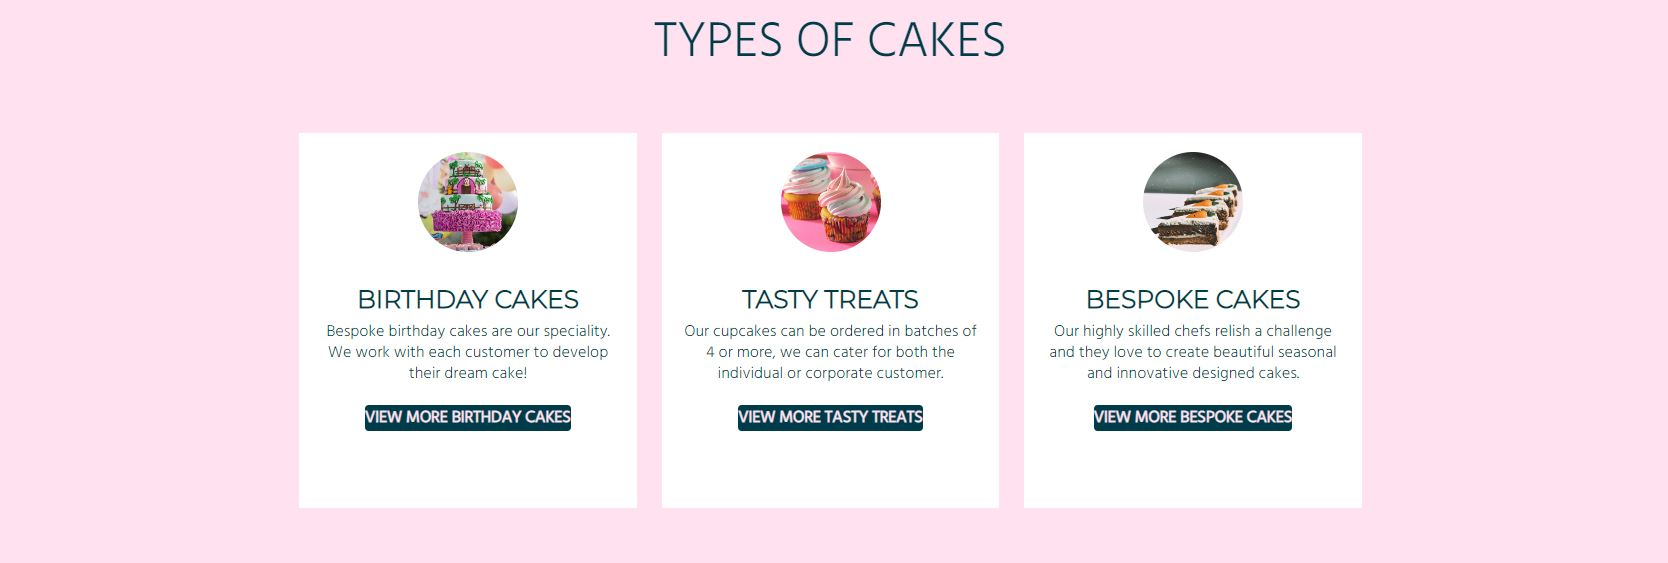
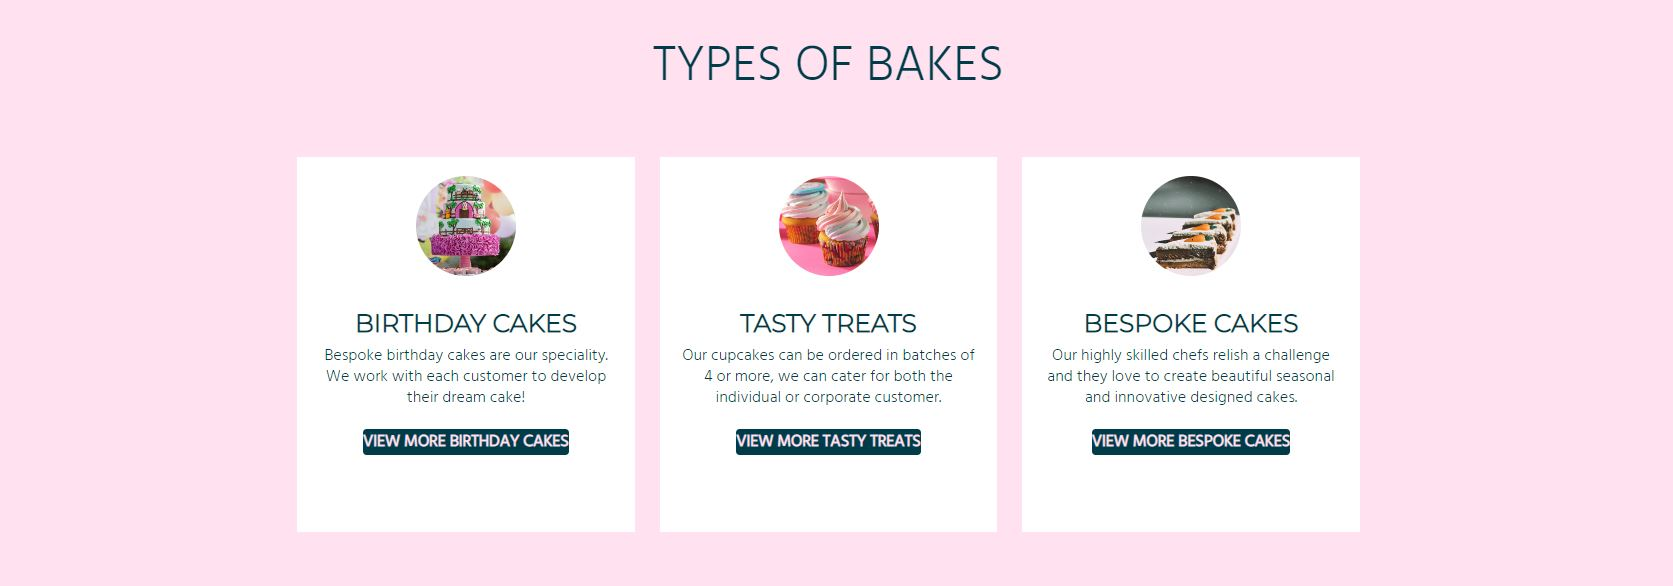
Doc: Fit typo in README doc

Changed region(s): [[0.1559, 0.2114, 0.8417, 0.9059], [0.1871, 0.5133, 0.3741, 0.7851], [0.3741, 0.0302, 0.6235, 0.151]]

diff --git a/README.md b/README.md
@@ -21,7 +21,7 @@
         4. [404 page](#404-page)
     2. [Landing page](#landing-page)
     	1. [Landing page image and call to action button](#landing-page-image-and-call-to-action-button)
-	    2. [Types of cakes](#types-of-cakes)
+	    2. [Types of bakes](#types-of-bakes)
 	    3. [Flavours](#flavours)
     3. [About page](#about-page)
     4. [Gallery page](#gallery-page)
@@ -77,7 +77,7 @@ This website's main goal is to show users the bakery and introduce new customers
 
 ### User stories
 #### First time users
-1.	I want to be able to find the types of cakes that are available
+1.	I want to be able to find the types of bakes that are available
 2.	I want to be able to contact the bakery
 3.	I want to be able to find out more information about the bakery
 
@@ -117,7 +117,7 @@ Fonts were imported from [Google Fonts](https://fonts.google.com/). The backup f
 The *Bakery Lane* website is structured in a user friendly and easy to learn way. Upon arriving to the website, the user sees a navigation bar with the logo on the left-hand side and the navigation links to the right. The navigation bar and footer are located on all pages created.
 
 The website consists of four pages:
-*   The homepage has a hero image with a call-to-action button and two sections for types of cakes and flavours
+*   The homepage has a hero image with a call-to-action button and two sections for types of bakes and flavours
 *   An About Us page with a hero image, information about the bakery 
 *   A gallery page with images highlighting the different kinds of cakes the bakery sells
 *   A Contact Us page with a contact form
@@ -195,17 +195,17 @@ All site wide features will be fully responsive on all devices.
 
 ### Landing page
 ####	Landing page image and call to action button
-*   An image will be carefully chosen for the background to make the landing page stand out from other websites, within the image there will be a text box and button to direct the user to the types of cakes *Bakery Lane* provides.
+*   An image will be carefully chosen for the background to make the landing page stand out from other websites, within the image there will be a text box and button to direct the user to the types of bakes *Bakery Lane* provides.
 *   This will help to immediately show the user what the website is about.
 
 ![landing page](assets/images/features/landing-page.JPG)
 
-#### Types of cakes
+#### Types of Bakes
 *   This section will be made up of three areas, birthday cakes, tasty treats, and bespoke cakes. Each area will show an image, a short description and a link to a specific area to the gallery page.
-*   This will allow the user to understand the types of cakes that Bakery Lane specialise in and allow the user to move to another section of the website.
+*   This will allow the user to understand the types of bakes that Bakery Lane specialise in and allow the user to move to another section of the website.
 
 
-![types of cakes](assets/images/features/types-of-cakes.JPG)
+![types of Bakes](assets/images/features/types-of-cakes.JPG)
 
 #### Flavours
 *   This section will supply information about the most popular flavours of cakes that *Bakery Lane* have been asked to bake to give the user more information.
@@ -426,18 +426,18 @@ During the testing the website behaved as expected with the exception of testing
 | Contact page | On any page click on the Contact link in the Navigation bar | Data submitted via contact form | Works as expected |
 | Footer - contact information section | On any page scroll down to the footer | Find the contact information for the bakery | Works as expected |
 
-2. I want to be able to find the types of cakes that are available
+2. I want to be able to find the types of bakes that are available
 
 | Feature               | Action                                                                           | Expected result                     | Actual Result     |
 |-----------------------|----------------------------------------------------------------------------------|-------------------------------------|-------------------|
-| Call to action button | Navigate to the Home page, in the hero image, click on the types of cakes button | Locating the types of cakes section | Works as expected |
-| Type of Cakes section | Navigate to the Home page, scroll down to types of cakes section                 | Locating the types of cakes section | Works as expected |
+| Call to action button | Navigate to the Home page, in the hero image, click on the types of bakes button | Locating the types of bakes section | Works as expected |
+| Type of Cakes section | Navigate to the Home page, scroll down to types of bakes section                 | Locating the types of bakes section | Works as expected |
 
 3. I want to be able to find out more information about the bakery
 
 | Feature       | Action                                                       | Expected result                     | Actual Result     |
 |---------------|--------------------------------------------------------------|-------------------------------------|-------------------|
-| About page | On any page click on the About link in the Navigation bar | Locating the types of cakes section | Works as expected |
+| About page | On any page click on the About link in the Navigation bar | Locating the types of bakes section | Works as expected |
 
 **Returning user**
 
@@ -462,7 +462,7 @@ During the testing the website behaved as expected with the exception of testing
 |-----------------------|------------------------------------------------------------------------------------------------|-------------------------------|-------------------|
 | Gallery Page          | On any page click on the Gallery link in the Navigation bar                                    | Find pictures of sample cakes | Works as expected |
 | Gallery Page          | On any page click on the Gallery link in the footer                                            | Find pictures of sample cakes | Works as expected |
-| Type of Cakes section | Navigate to the Home page, scroll down to types of cakes section, click on the view more links | Find pictures of sample cakes | Works as expected |
+| Type of Cakes section | Navigate to the Home page, scroll down to types of bakes section, click on the view more links | Find pictures of sample cakes | Works as expected |
 
 
 ## Bugs
